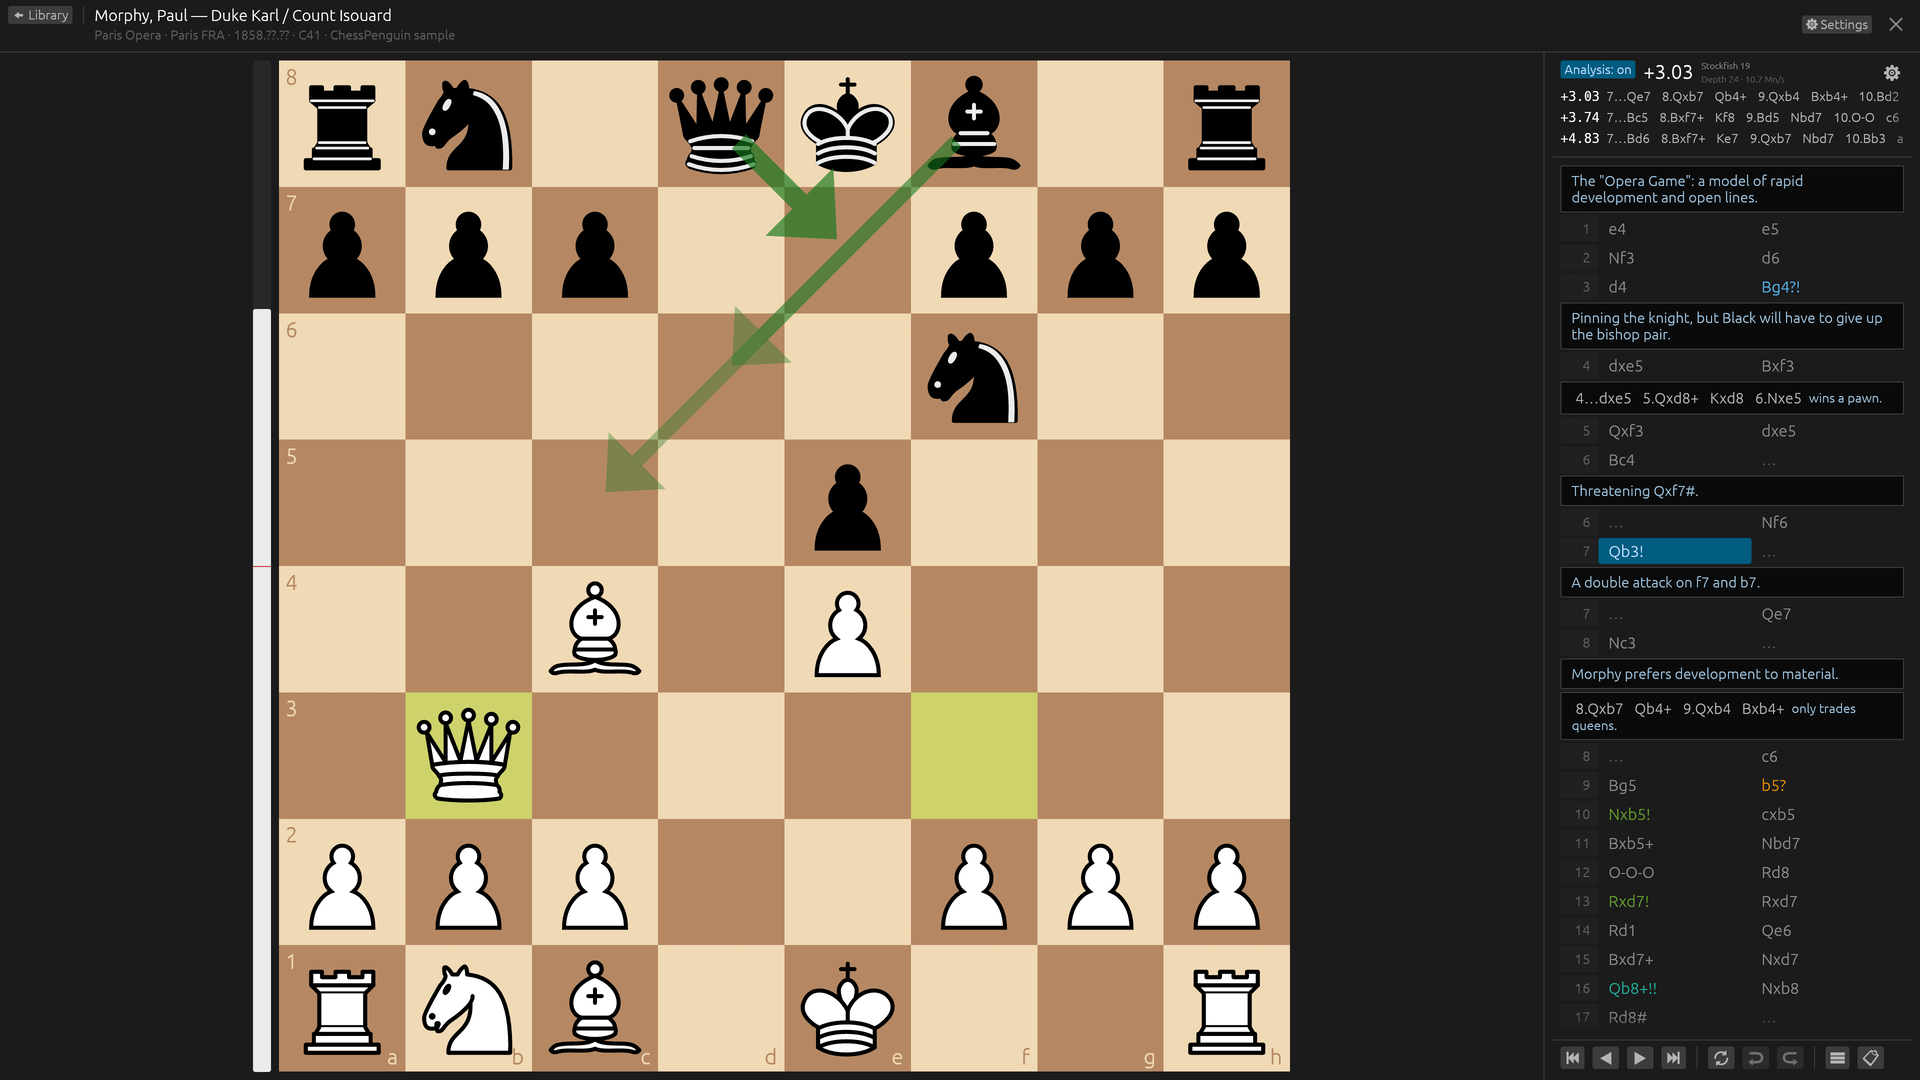
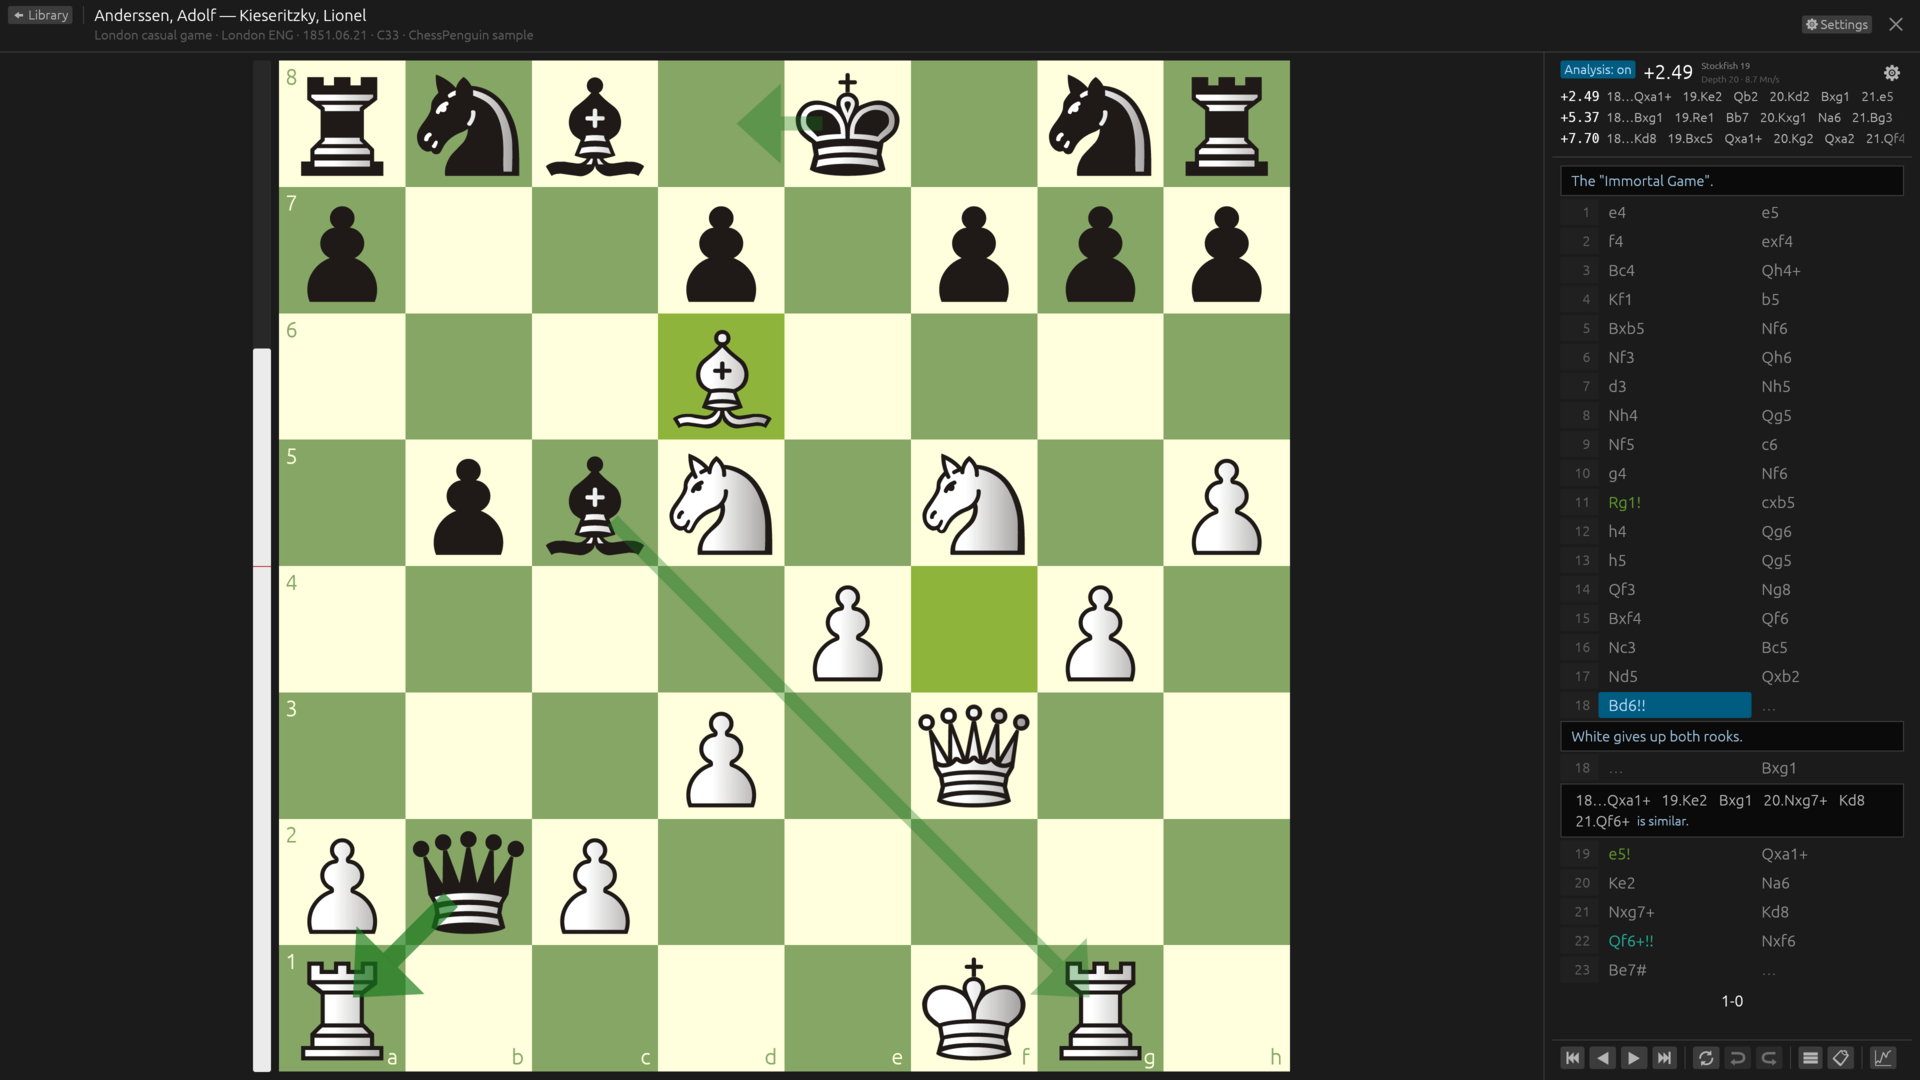
ChessPenguin 0.2.0: screenshots in English and Russian, shorter better lines
- New screenshots (Merida pieces, green board) in English and Russian:
  engine analysis, game review, engine marks, engine settings, library, settings.
- Better lines under marked moves show 6 moves and grow while stepping.
- CP_REPORT dev hook; version 0.2.0, changelog and AppStream release.

diff --git a/apps/desktop/src/notation.rs b/apps/desktop/src/notation.rs
@@ -36,6 +36,8 @@ pub enum NotationCommand {
 
 const ROW_H: f32 = 26.0;
 const NUM_W: f32 = 38.0;
+/// Moves of an engine's better line shown under a marked move.
+const MARK_LINE_MOVES: usize = 6;
 
 impl Notation<'_> {
     pub fn show(self, ui: &mut Ui) -> NotationResponse {
@@ -275,7 +277,9 @@ fn mark_block(ui: &mut Ui, n: &Notation, id: NodeId, mark: &Mark, out: &mut Nota
                     return;
                 }
                 ui.label(RichText::new(tr("Best:")).weak());
-                for (i, san) in mark.best_san.iter().enumerate() {
+                // Short by default; grows while the line is stepped through on the board.
+                let visible = MARK_LINE_MOVES.max(shown.unwrap_or(0));
+                for (i, san) in mark.best_san.iter().enumerate().take(visible) {
                     let label = match start {
                         Some((num, turn)) => {
                             let ply = i as u32 + u32::from(turn == Color::Black);
@@ -309,6 +313,9 @@ fn mark_block(ui: &mut Ui, n: &Notation, id: NodeId, mark: &Mark, out: &mut Nota
                     if resp.clicked() {
                         out.best = Some((id, i + 1));
                     }
+                }
+                if mark.best_san.len() > visible {
+                    ui.label(RichText::new("…").weak());
                 }
             });
         });

diff --git a/apps/desktop/src/game_view.rs b/apps/desktop/src/game_view.rs
@@ -958,6 +958,14 @@ impl GameView {
         self.engine_settings_open = true;
     }
 
+    /// Shows the Report tab (with the graph) when an analysis is available.
+    pub fn debug_show_report(&mut self) {
+        if self.review.has_data() {
+            self.review.visible = true;
+            self.side_tab = SideTab::Report;
+        }
+    }
+
     /// Opens the better line of the first engine-marked move up to its `shown`-th move.
     pub fn debug_best_line(&mut self, shown: usize) {
         let mark = self

diff --git a/apps/desktop/src/app.rs b/apps/desktop/src/app.rs
@@ -198,6 +198,9 @@ impl App {
             if std::env::var("CP_ENGINE_PANEL").is_ok() {
                 g.debug_open_engine_settings();
             }
+            if std::env::var("CP_REPORT").is_ok() {
+                g.debug_show_report();
+            }
             if let Some(k) = std::env::var("CP_BEST").ok().and_then(|v| v.parse().ok()) {
                 g.debug_best_line(k);
             }

diff --git a/README.ru.md b/README.ru.md
@@ -5,7 +5,7 @@
 
 [English](README.md) · [Скачать](https://github.com/vrubelroman/chessPenguin/releases/latest)
 
-![Анализ](docs/screenshots/analysis.png)
+![Анализ](docs/screenshots/ru/analysis.png)
 
 ## Возможности
 
@@ -24,6 +24,14 @@
   копирование PGN/FEN, сохранение партии в новый файл.
 - **Оформление** — 14 наборов фигур и 26 досок (цвета и текстуры Lichess), звуки, тёмная и светлая тема.
 - **Языки** — English, Русский, Français, Deutsch, Español, Italiano.
+
+| Анализ партии: график и отчёт | Отметки движка и лучшие варианты |
+| --- | --- |
+| ![Анализ партии](docs/screenshots/ru/review.png) | ![Отметки движка](docs/screenshots/ru/marks.png) |
+| **Настройки движка в панели анализа** | **Библиотека** |
+| ![Настройки движка](docs/screenshots/ru/engine.png) | ![Библиотека](docs/screenshots/ru/library.png) |
+| **Доски и фигуры** | |
+| ![Настройки](docs/screenshots/ru/settings.png) | |
 
 ## Установка
 

diff --git a/README.md b/README.md
@@ -38,9 +38,13 @@
   sounds, dark and light themes.
 - **Languages** — English, Русский, Français, Deutsch, Español, Italiano.
 
-| Library | Variations and engine settings | Boards and pieces |
-| --- | --- | --- |
-| ![Library](docs/screenshots/library.png) | ![Variations](docs/screenshots/variations.png) | ![Settings](docs/screenshots/settings.png) |
+| Game analysis: graph and report | Engine marks and better lines |
+| --- | --- |
+| ![Game analysis](docs/screenshots/review.png) | ![Engine marks](docs/screenshots/marks.png) |
+| **Engine settings in the analysis panel** | **Library** |
+| ![Engine settings](docs/screenshots/engine.png) | ![Library](docs/screenshots/library.png) |
+| **Boards and pieces** | |
+| ![Settings](docs/screenshots/settings.png) | |
 
 ## Install
 

diff --git a/CHANGELOG.md b/CHANGELOG.md
@@ -2,7 +2,7 @@
 
 All notable changes are listed here. Versions follow [Semantic Versioning](https://semver.org/).
 
-## [Unreleased]
+## [0.2.0] — 2026-10-18
 
 - Stockfish 19 is bundled with every package (unmodified official "universal" build, which picks
   the right code path for the CPU) and set up on the first start; a system `stockfish` is detected
@@ -13,6 +13,7 @@ All notable changes are listed here. Versions follow [Semantic Versioning](https
   average centipawn loss and accuracy per game phase; engine marks and better lines in the notation;
   "Write analysis to the game" (NAGs, comments, `[%eval]`, one undo step). Results are cached;
   `[%eval]` comments of a PGN are used without an engine.
+- Screenshots in English and Russian.
 
 ## [0.1.0] — 2026-10-18
 
